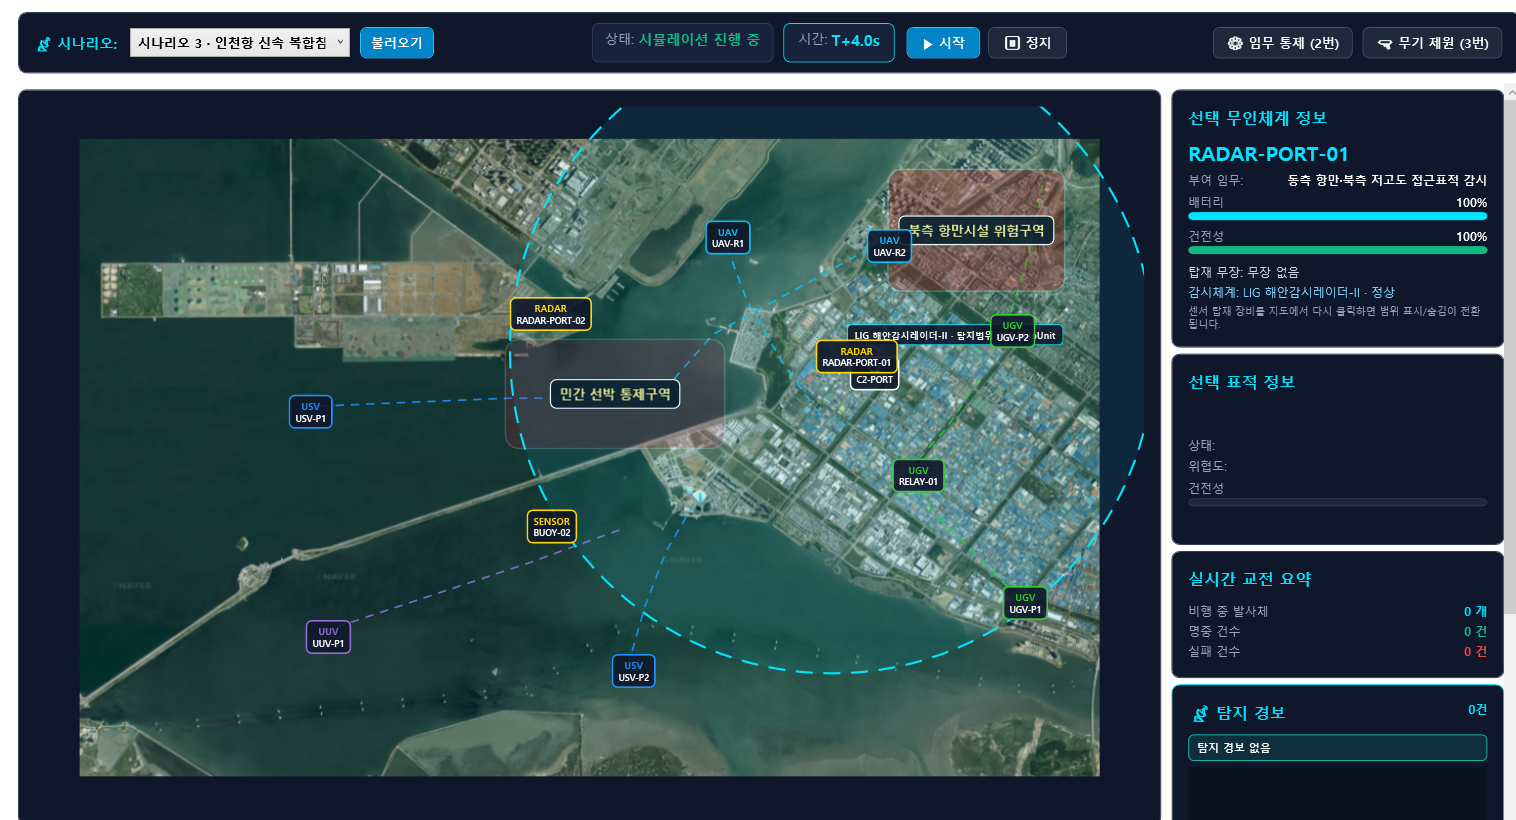
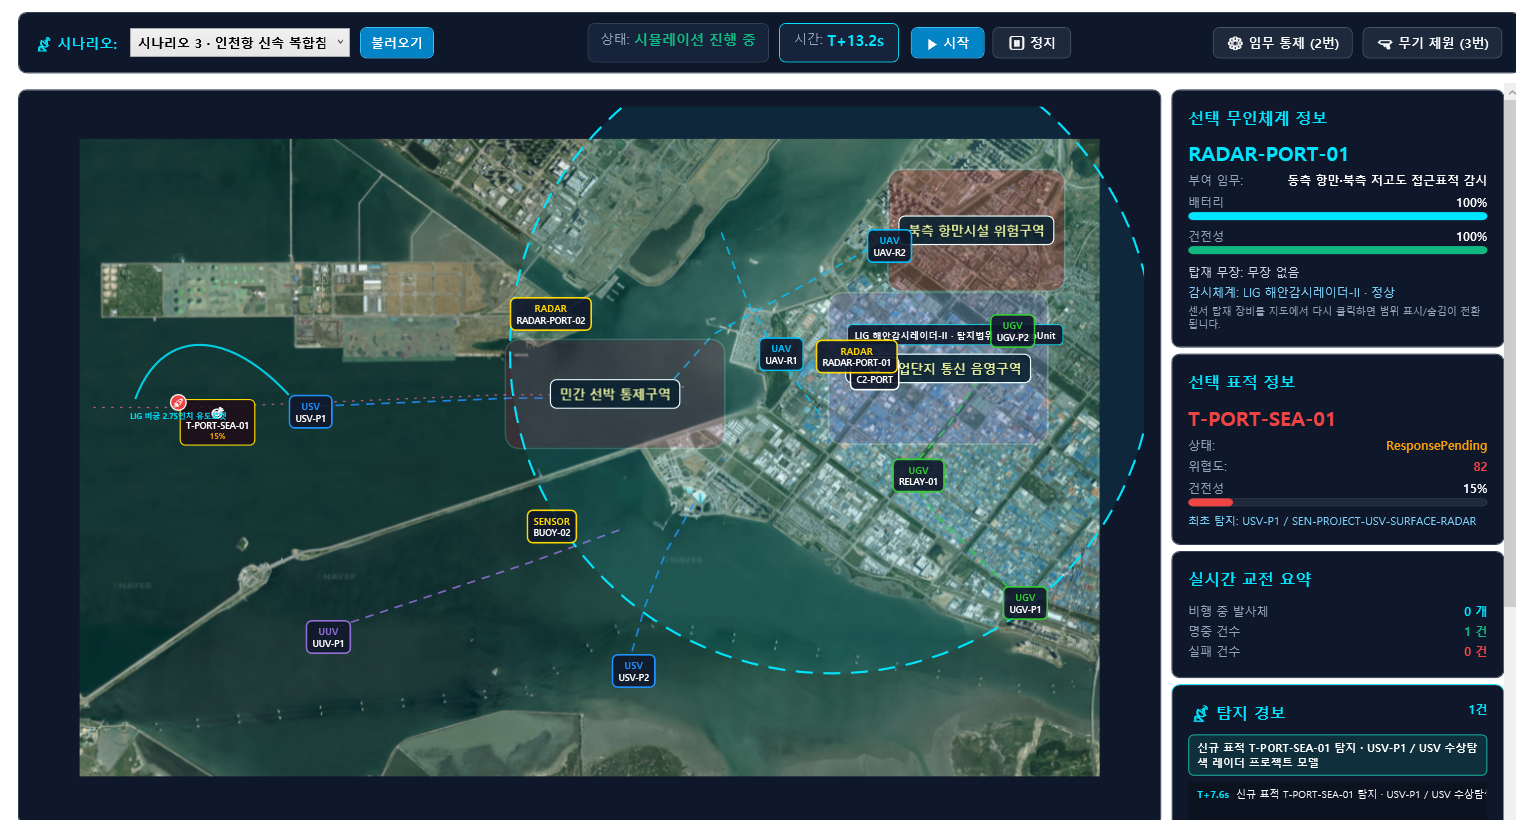
Sync verified MOSAIC chapters and preview

diff --git a/portfolio/projects/mosaic-c2.html b/portfolio/projects/mosaic-c2.html
@@ -8,7 +8,7 @@
   <link rel="canonical" href="https://neberrein.github.io/projects/mosaic-c2.html">
   <meta property="og:type" content="website"><meta property="og:title" content="MOSAIC C2 다영역 무인체계 지휘통제 시뮬레이터 | 곽민재"><meta property="og:description" content="탐지, 대응수단 추천, 기동, 교전과 재교전을 통합한 WPF 시뮬레이터"><meta property="og:url" content="https://neberrein.github.io/projects/mosaic-c2.html"><meta property="og:image" content="https://neberrein.github.io/assets/images/mosaic-hanriver-t8.png">
   <link rel="icon" href="../assets/favicon.svg" type="image/svg+xml">
-  <link rel="stylesheet" href="../assets/site.css">
+  <link rel="stylesheet" href="../assets/site.css?v=mosaic-wpf-20260913">
   <script src="../assets/site.js" defer></script>
   <script src="../assets/mosaic-c2.js" defer></script>
 </head>
@@ -23,7 +23,7 @@
     <p class="case-subtitle">공중, 수상, 수중과 지상 무인체계의 탐지, 대응수단 추천, 기동, 교전과 재교전을 하나의 WPF 시뮬레이터로 통합했습니다. 외부 JSON 시나리오와 실행 로직을 분리하고 통신 상태와 가용 자산에 따라 판단을 다시 수행하도록 구성했습니다.</p>
     <div class="headline-result"><strong>3 SCENARIOS</strong><span>운용자 개입 없이<br>자동 실행</span></div>
     <dl class="case-facts"><div><dt>기간</dt><dd>2026.07, 1주</dd></div><div><dt>맥락</dt><dd>The SSEN 과정 미니 프로젝트</dd></div><div><dt>역할</dt><dd>4인 팀, 팀장</dd></div><div><dt>기술</dt><dd>C#, WPF, MVVM, JSON</dd></div></dl>
-    <figure class="detail-cover mosaic-live-cover"><img src="../assets/images/mosaic-hanriver-t8.png" alt="MOSAIC C2 한강 다영역 통합방어 WPF 실행 화면"><figcaption><strong>실행 화면 T+8 s</strong> 한강 다영역 통합방어. 수상 표적 건전성 15%, 발사체 2발 비행 중, RADAR-G01 선택으로 탐지범위 표시</figcaption></figure>
+    <figure class="detail-cover mosaic-live-cover"><img src="../assets/images/mosaic-hanriver-t8.png?v=wpf-20260913" alt="MOSAIC C2 한강 다영역 통합방어 WPF 실행 화면"><figcaption><strong>실행 화면 T+8 s</strong> 한강 다영역 통합방어. 수상 표적 건전성 15%, 발사체 2발 비행 중, RADAR-G01 선택으로 탐지범위 표시</figcaption></figure>
   </section>
 
   <section class="case-section"><div class="section-shell case-layout"><div><span class="case-section-label">01 / SYSTEM</span><h2>시스템 구조와 담당 범위</h2></div><div class="case-body">
@@ -54,7 +54,7 @@
       </div>
       <div id="panel-incheon" role="tabpanel" aria-labelledby="tab-incheon" hidden>
         <figure class="video-card mosaic-native-video"><video controls playsinline preload="none" poster="../assets/images/mosaic-incheon-during.png" aria-label="인천항 복합침투 WPF 실행 영상"><source src="../assets/videos/mosaic-incheon-wpf.mp4" type="video/mp4"><track kind="captions" src="../assets/videos/mosaic-incheon-wpf.vtt" srclang="ko" label="실행 이벤트">영상을 재생할 수 없습니다. <a href="../assets/videos/mosaic-incheon-wpf.mp4">실행 영상 열기</a></video><figcaption>인천항 수상, 공중과 지상 표적 탐지 및 지휘통신 복구 후 자동 대응</figcaption></figure>
-        <div class="mosaic-chapters" aria-label="인천항 영상 구간 이동"><button type="button" data-seek="0">처음</button><button type="button" data-seek="4">4초, 초기 탐지</button><button type="button" data-seek="8">8초, 통신 복구</button><button type="button" data-seek="70.2">결과 분석</button></div>
+        <div class="mosaic-chapters" aria-label="인천항 영상 구간 이동"><button type="button" data-seek="0">처음</button><button type="button" data-seek="8">8초, 수상 표적 대응</button><button type="button" data-seek="13.2">13.2초, 통신 복구</button><button type="button" data-seek="70.2">결과 분석</button></div>
       </div>
     </div>
   </div></div></section>
